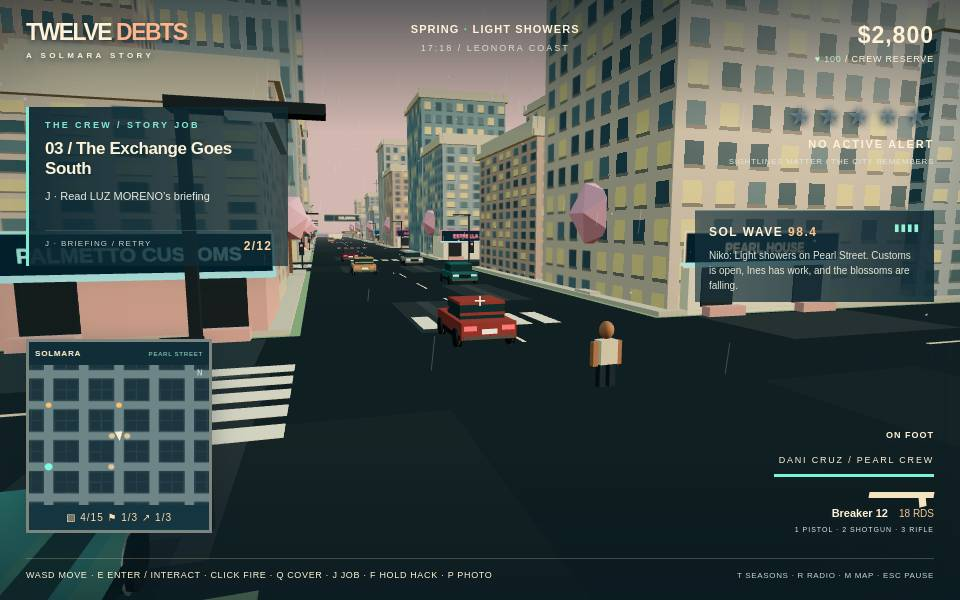
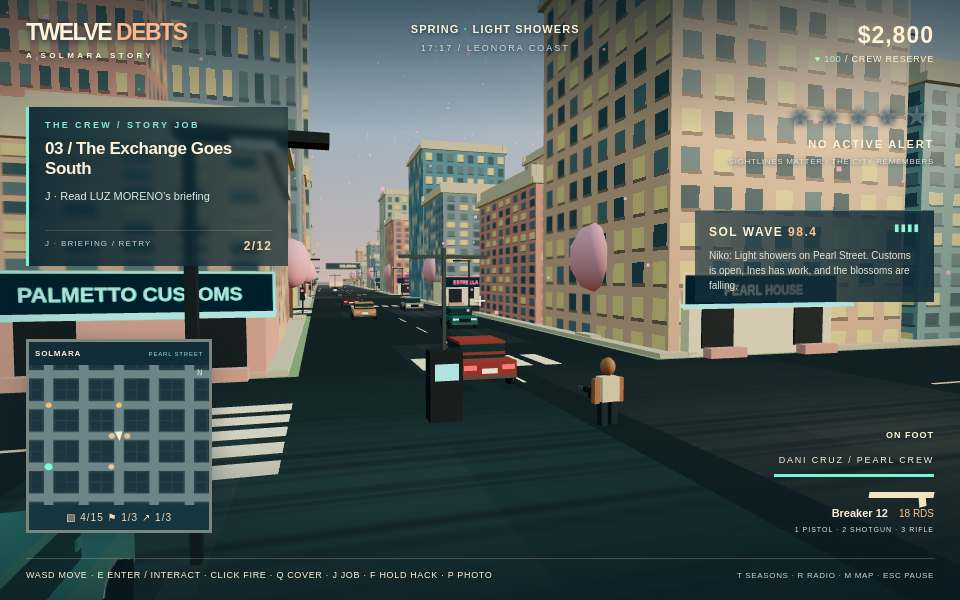
Complete mission hardware and final seasonal capture effects

diff --git a/tools/verify.ts b/tools/verify.ts
@@ -1,0 +1,61 @@
+import assert from 'node:assert/strict';
+import { readFileSync, readdirSync, statSync } from 'node:fs';
+import { join, resolve } from 'node:path';
+import { spawnSync } from 'node:child_process';
+import { createHash } from 'node:crypto';
+import { buildDossier, readGameTree, sourceImports, htmlFacts, resolveGamePath } from '../vendor/makefun-game.ts';
+
+// Public-rule preflight, not the sealed scorer or a judge simulation.
+const output=resolve(process.argv[2]||'out');
+const caps={text_max_bytes:163840,screenshots:{max:4,max_bytes:262144},game_max_files:993,game_max_bytes:50331648,game_path_max_bytes:1000};
+const tree=readGameTree(join(output,'game'),caps);
+const files=new Set(tree.files.map(f=>f.path));
+assert.ok(files.has('index.html'));assert.ok(statSync(join(output,'game/index.html')).size<=1048576);
+console.log('PASS game_files',tree.count,'entries,',tree.totalBytes,'bytes');
+let references=0;
+function checkRef(ref:string,from:string){
+  if(ref.startsWith('data:'))return;
+  assert.ok(!/^(?:[a-z]+:|\/\/)/i.test(ref),'external reference '+ref);
+  const path=ref.startsWith('/')?ref.slice(1):resolveGamePath(ref,from);
+  assert.ok(path&&files.has(path),'missing or unsafe reference '+from+' -> '+ref);references++;
+}
+for(const file of tree.files){
+  if(!/\.(?:js|mjs)$/.test(file.path))continue;
+  const script=readFileSync(join(output,'game',file.path),'utf8');
+  for(const ref of sourceImports(script))checkRef(ref,file.path);
+  const parse=spawnSync(process.execPath,['--check',join(output,'game',file.path)],{encoding:'utf8'});
+  assert.equal(parse.status,0,parse.stderr);
+}
+const html=htmlFacts(readFileSync(join(output,'game/index.html'),'utf8'));
+for(const script of html.scripts)if(script.src)checkRef(script.src,'index.html');
+for(const link of html.links)checkRef(link.href,'index.html');
+assert.equal(html.importMaps.length,0);
+assert.ok(tree.totalBytes < 48*1024*1024,'game exceeds the competition byte limit');
+console.log('PASS references',references,'local references; all JavaScript parses');
+function jpegSize(bytes:Buffer){
+  assert.equal(bytes.readUInt16BE(0),0xffd8);assert.equal(bytes.readUInt16BE(bytes.length-2),0xffd9);
+  let p=2;
+  while(p<bytes.length){
+    assert.equal(bytes[p++],255);while(bytes[p]===255)p++;
+    const marker=bytes[p++];if(marker===0xd9||marker===0xda)break;
+    const size=bytes.readUInt16BE(p);
+    if([0xc0,0xc1,0xc2].includes(marker))return {width:bytes.readUInt16BE(p+5),height:bytes.readUInt16BE(p+3)};
+    p+=size;
+  }
+  throw new Error('JPEG has no supported frame header');
+}
+const shots=readdirSync(join(output,'screenshots')).filter(n=>!n.startsWith('.')).sort();assert.equal(shots.length,4);
+const shotInfo=shots.map(name=>{
+  assert.match(name,/^[A-Za-z0-9][A-Za-z0-9._-]{0,127}$/);
+  const bytes=readFileSync(join(output,'screenshots',name)),size=jpegSize(bytes);
+  assert.deepEqual(size,{width:960,height:600});assert.ok(bytes.length<=80000,name+' exceeds 80,000 bytes');
+  return {name,bytes:bytes.length,...size};
+});
+console.log('PASS screenshots',JSON.stringify(shotInfo));
+const expected=Buffer.from(buildDossier(output,caps)),actual=readFileSync(join(output,'dossier.json'));
+assert.ok(actual.equals(expected),'dossier bytes differ');assert.ok(actual.length<=1572864);
+const kit=resolve('../gta6-01-kit-v21/gta6-01-kit/starter/vendor/makefun-game.ts');
+assert.ok(readFileSync('vendor/makefun-game.ts').equals(readFileSync(kit)),'helper differs from kit');
+assert.equal(JSON.parse(readFileSync('.makefun/owner.json','utf8')).wallet,'9XAmKVSK2jKwExuis5E2WyrgsKx5F99gfuUrvbqXv52p');
+console.log('PASS dossier_matches',actual.length,'bytes, SHA256',createHash('sha256').update(actual).digest('hex'));
+console.log('4/4 public artifact checks passed. The sealed transcript gate and pairwise judge remain server-side.');

diff --git a/game/src/missions.js b/game/src/missions.js
@@ -1,3 +1,4 @@
+import * as T from '../vendor/three.module.min.js';
 import { distance, clamp } from './config.js';
 import { createCar, spawnRivals, syncCar } from './actors.js';
 import { lineOfSight } from './city.js';
@@ -38,6 +39,7 @@ export function createMissions(game) {
 export function startMission(game) {
   const m=game.mission;if(m.index>=12)return;
   if(m.van)game.scene.remove(m.van.mesh);
+  for(const mesh of m.caseMeshes||[])game.scene.remove(mesh);m.caseMeshes=[];
   spawnRivals(game,[]);game.combat.targets=[];
   const j=JOBS[m.index];Object.assign(m,{status:'active',phase:0,timer:j.time,progress:0,kills:0,alarm:0,van:null,routeIndex:0,collected:0,casePoints:[],signal:100,started:false,failReason:''});
   clearPolice(game);game.health=Math.max(game.health,85);if(game.car)game.car.health=Math.max(85,game.car.health);
@@ -60,6 +62,7 @@ export function failMission(game,reason) {
 function completeMission(game) {
   const m=game.mission,j=JOBS[m.index];game.save.cash+=j.reward;game.save.done=m.index+1;saveGame(game.save);
   spawnRivals(game,[]);game.combat.targets=[];if(m.van){game.scene.remove(m.van.mesh);m.van=null;}
+  for(const mesh of m.caseMeshes||[])game.scene.remove(mesh);m.caseMeshes=[];
   m.index++;m.status=m.index===12?'complete':'briefing';
   game.notify(m.index===12?'PEARL STREET IS OURS / THE CREW MADE IT HOME':`DEBT CLEARED / +$${j.reward} / J FOR NEXT JOB`,8);
   game.radioMessage(m.index===12?'Niko: The reserve is back where it belongs. Solmara, this one is for you.':'Niko: Someone just put another dent in the port auction. Pearl Street is listening.',10);
@@ -133,9 +136,11 @@ export function updateMission(game,dt) {
     case 'combat':if(!m.started&&d<48)beginAmbush(game,4,j.goal);if(m.started&&game.combat.kills>=4)completeMission(game);break;
     case 'intercept':case 'convoy': {
       if(m.phase===0){
-        if(m.van.health<=0){m.phase=1;m.casePoints=j.type==='convoy'?[{x:m.van.x+4,z:m.van.z},{x:m.van.x-4,z:m.van.z+3}]:[{x:m.van.x+4,z:m.van.z}];game.commitCrime('reserve van robbery',3);game.notify('VEHICLE DISABLED / EXIT AND COLLECT THE CASES');}
+        if(m.van.health<=0){m.phase=1;m.casePoints=j.type==='convoy'?[{x:m.van.x+4,z:m.van.z},{x:m.van.x-4,z:m.van.z+3}]:[{x:m.van.x+4,z:m.van.z}];
+          m.caseMeshes=m.casePoints.map(p=>{const mesh=new T.Mesh(new T.BoxGeometry(1.1,.65,.7),new T.MeshStandardMaterial({color:0xf6cb80,emissive:0xa16729,emissiveIntensity:.4}));mesh.position.set(p.x,.5,p.z);game.scene.add(mesh);return mesh;});
+          game.commitCrime('reserve van robbery',3);game.notify('VEHICLE DISABLED / EXIT AND COLLECT THE CASES');}
         else if(j.type==='convoy'?m.routeIndex>=4:m.van.laps>=2)failMission(game,'The courier escaped');
-      }else if(m.phase===1){const c=m.casePoints[m.collected];if(!game.car&&!game.flying&&distance(p,c)<4){m.collected++;game.notify('EVIDENCE SECURED');if(m.collected===m.casePoints.length){m.phase=2;m.progress=0;}}}
+      }else if(m.phase===1){const c=m.casePoints[m.collected];if(!game.car&&!game.flying&&distance(p,c)<4){if(m.caseMeshes[m.collected])m.caseMeshes[m.collected].visible=false;m.collected++;game.notify('EVIDENCE SECURED');if(m.collected===m.casePoints.length){m.phase=2;m.progress=0;}}}
       else {if(!game.police.seen)m.progress+=dt;else m.progress=0;if(m.progress>=(j.type==='convoy'?10:8))completeMission(game);}break;
     }
     case 'defend':case 'broadcast': {

diff --git a/game/src/city.js b/game/src/city.js
@@ -89,6 +89,12 @@ export function buildCity(scene) {
     const material=new T.MeshBasicMaterial({map:tex,side:T.DoubleSide});
     const panel=mesh(new T.PlaneGeometry(width,width*96/512),material,x,y,z);panel.rotation.y=rotation;signs.push(panel);return panel;
   }
+  const reflectionCanvas=document.createElement('canvas');reflectionCanvas.width=64;reflectionCanvas.height=256;
+  const rc=reflectionCanvas.getContext('2d'),reflectionGradient=rc.createRadialGradient(32,70,1,32,90,150);
+  reflectionGradient.addColorStop(0,'rgba(255,255,255,.9)');reflectionGradient.addColorStop(.4,'rgba(255,255,255,.35)');reflectionGradient.addColorStop(1,'rgba(255,255,255,0)');
+  rc.fillStyle=reflectionGradient;rc.fillRect(0,0,64,256);
+  rc.globalCompositeOperation='destination-out';for(let i=0;i<60;i++){rc.globalAlpha=random()*.75;rc.fillRect(0,random()*256,64,1+random()*3);}rc.globalAlpha=1;
+  const reflectionTexture=new T.CanvasTexture(reflectionCanvas);
   for(const [text,x,z,color] of [
     ['PALMETTO CUSTOMS',17,-49,'#7affdf'],['PEARL HOUSE',-18,-49,'#ffd2a2'],
     ['ESTRELLA / ARMS',-17,15,'#ff8b9e'],['SOL WAVE 98.4',17,79,'#ffcd75'],
@@ -99,9 +105,17 @@ export function buildCity(scene) {
     sign(text,x,4,z-4.56,12,color,Math.PI);
     box(x,3.1,z-5,12,.22,1.4,mats.cyan);
     for(const side of [-1,1]){box(x+side*3.5,1.7,z-4.58,2.3,2.4,.1,mats.dark);box(x+side*3.5,.3,z-5.3,2.6,.6,.7,mats.pink);}
-    const refl=ground(11,7,x,z-9,new T.MeshBasicMaterial({color,transparent:true,opacity:.08,depthWrite:false}),.049);reflections.push(refl);
+    const refl=ground(15,29,x*.48,z-15,new T.MeshBasicMaterial({color,map:reflectionTexture,transparent:true,opacity:.08,depthWrite:false,blending:T.AdditiveBlending,toneMapped:false}),.055);reflections.push(refl);
   }
   sign('SOLMARA',-6,11,219,24,'#fff2c7',Math.PI);
+  // Mission hardware stays in the world outside its job: terminals and the reserve vault.
+  for(const [x,z] of [[69,-192],[5,-64],[5,64]]){
+    box(x,1.2,z,1.1,2.4,.8,mats.dark);box(x,1.7,z-.42,.8,.55,.04,mats.cyan);
+    box(x,3.8,z,.12,4,.12,mats.metal);box(x,5.5,z,3,.12,.12,mats.metal);
+  }
+  box(136,2.2,252,8,4.4,7,mats.dark);box(136,2,248.4,5,3.6,.3,mats.metal);
+  const vaultWheel=mesh(new T.TorusGeometry(.7,.1,6,24),mats.white,136,2,248.17);
+  sign('PORT RESERVE / 12',136,5.2,248.1,10,'#ffcf86',Math.PI);
   // Palms line the promenade; broadleaf street trees carry seasonal colors.
   const crowns=[];
   function tree(x,z,palm=false) {

diff --git a/game/src/environment.js b/game/src/environment.js
@@ -14,7 +14,7 @@ export function createEnvironment(scene,city) {
   const random=rng(940),positions=new Float32Array(1800*3);
   for(let i=0;i<1800;i++){positions[i*3]=(random()-.5)*160;positions[i*3+1]=random()*85;positions[i*3+2]=(random()-.5)*160;}
   const geometry=new T.BufferGeometry();geometry.setAttribute('position',new T.BufferAttribute(positions,3));
-  const particles=new T.Points(geometry,new T.PointsMaterial({color:0xffd0dc,size:.23,transparent:true,opacity:.8,depthWrite:false}));scene.add(particles);
+  const particles=new T.Points(geometry,new T.PointsMaterial({color:0xffd0dc,size:.32,transparent:true,opacity:.9,depthWrite:false,toneMapped:false}));scene.add(particles);
   const rainPositions=new Float32Array(900*6);
   for(let i=0;i<900;i++){const x=(random()-.5)*130,y=random()*65,z=(random()-.5)*130;rainPositions.set([x,y,z,x-.1,y+.9,z],i*6);}
   const rainGeometry=new T.BufferGeometry();rainGeometry.setAttribute('position',new T.BufferAttribute(rainPositions,3));
@@ -27,7 +27,7 @@ export function setSeason(e,scene,index) {
   e.city.groundMat.color.setHex(s.ground);e.city.mats.leaf.color.setHex(s.leaf);e.city.mats.roof.color.setHex(e.season===3?0xe4ebec:0xdcd2b8);
   e.city.mats.curb.color.setHex(e.season===3?0xc3d4dc:0xcec6b0);
   e.particles.material.color.setHex(e.season===2?0xf5a755:e.season===3?0xffffff:0xffb4d0);
-  e.particles.material.size=e.season===2?.3:e.season===3?.19:.18;
+  e.particles.material.size=e.season===2?.48:e.season===3?.29:.34;
   e.ambient.color.setHex(s.ambient);e.sun.color.setHex(s.sun);
 }
 export function updateEnvironment(game,dt) {
@@ -45,7 +45,8 @@ export function updateEnvironment(game,dt) {
   e.ambient.intensity=night?1.2:2.05;e.sun.intensity=night?.22:twilight?2.3:2.7;
   e.sun.position.set(-140,twilight?65:200,-90);
   e.city.buildingMats.forEach(m=>m.emissiveIntensity=night?.56:.13);
-  e.city.reflections.forEach(r=>r.material.opacity=e.wet*(night?.33:.12));
+  e.city.reflections.forEach(r=>r.material.opacity=e.wet*(night?.66:.16));
+  for(const c of [...game.traffic,...game.garage,...game.police.units])for(const beam of c.lights)beam.material.opacity=night?.34:.035;
   e.city.lamps.forEach(r=>r.material.opacity=night?.2:.02);
   e.particles.visible=e.season!==1;e.rain.visible=raining;
   e.particles.position.set(game.player.x,game.player.y,game.player.z);e.rain.position.set(game.player.x,game.player.y,game.player.z);

diff --git a/game/src/game.js b/game/src/game.js
@@ -164,7 +164,7 @@ function cameraAndMarkers(dt){
   if(game.shot==='autumn'){
     desired.set(p.x-45,p.y+31,p.z-55);look.set(p.x+30,p.y-45,p.z+55);
   }else if(game.shot==='spring'){
-    desired.set(p.x+9,5.2,p.z-16);look.set(p.x+2,2,p.z+8);
+    desired.set(p.x+9,4.8,p.z-16);look.set(p.x+2,3.8,p.z+8);
   }else if(game.shot){
     desired.set(p.x+10,6.3,p.z-17);look.set(p.x,2.1,p.z+8);
   }else if(!game.started){desired.set(20,11,-91);look.set(0,3,-38);}
@@ -191,7 +191,7 @@ function stageSeasonShot(name){
     // Real inventory and the open storefront are readable without hiding the street.
     game.traffic.slice(0,4).forEach((c,i)=>{Object.assign(c,{x:i%2?4:-4,z:-30+i*14,axis:1,dir:i%2?1:-1});c.heading=c.dir>0?0:Math.PI;syncCar(c);});
   }else if(name==='autumn'){
-    game.flying=game.parkedHeli;Object.assign(game.flying,{x:-96,z:85,y:105,heading:.7,speed:23});Object.assign(game.player,{x:-96,z:85,y:105,heading:.7});game.flying.mesh.position.set(-96,105,85);game.flying.mesh.rotation.y=.7;game.mission.index=6;game.mission.phase=1;game.mission.progress=3;
+    game.flying=game.parkedHeli;Object.assign(game.flying,{x:-140,z:-120,y:130,heading:.7,speed:23});Object.assign(game.player,{x:-140,z:-120,y:130,heading:.7});game.flying.mesh.position.set(-140,130,-120);game.flying.mesh.rotation.y=.7;game.mission.index=6;game.mission.phase=1;game.mission.progress=3;
     game.avatar.mesh.visible=false;game.dj='Mara on SOL WAVE: Luz is on the Glass Quarter roof. Keep the Kite steady and watch the crosswind.';
   }else {
     const z=name==='winter'?45:-16;game.car=game.garage[0];Object.assign(game.car,{x:0,z,y:0,heading:0,speed:38,nitro:.63});Object.assign(game.player,{x:0,z,y:0,heading:0});game.avatar.mesh.visible=false;game.car.flame.visible=true;game.combat.weapon=2;syncCar(game.car);

diff --git a/vendor/makefun-game.ts b/vendor/makefun-game.ts
@@ -1201,4 +1201,3 @@ export function buildDossier(dir: string, caps: DossierCaps): Uint8Array {
   if (bytes.length > DOSSIER_MAX_BYTES) throw new DossierError(`buildDossier: the dossier is ${bytes.length} bytes, over the ${DOSSIER_MAX_BYTES} one holds`);
   return new Uint8Array(bytes.buffer, bytes.byteOffset, bytes.length);
 }
-
